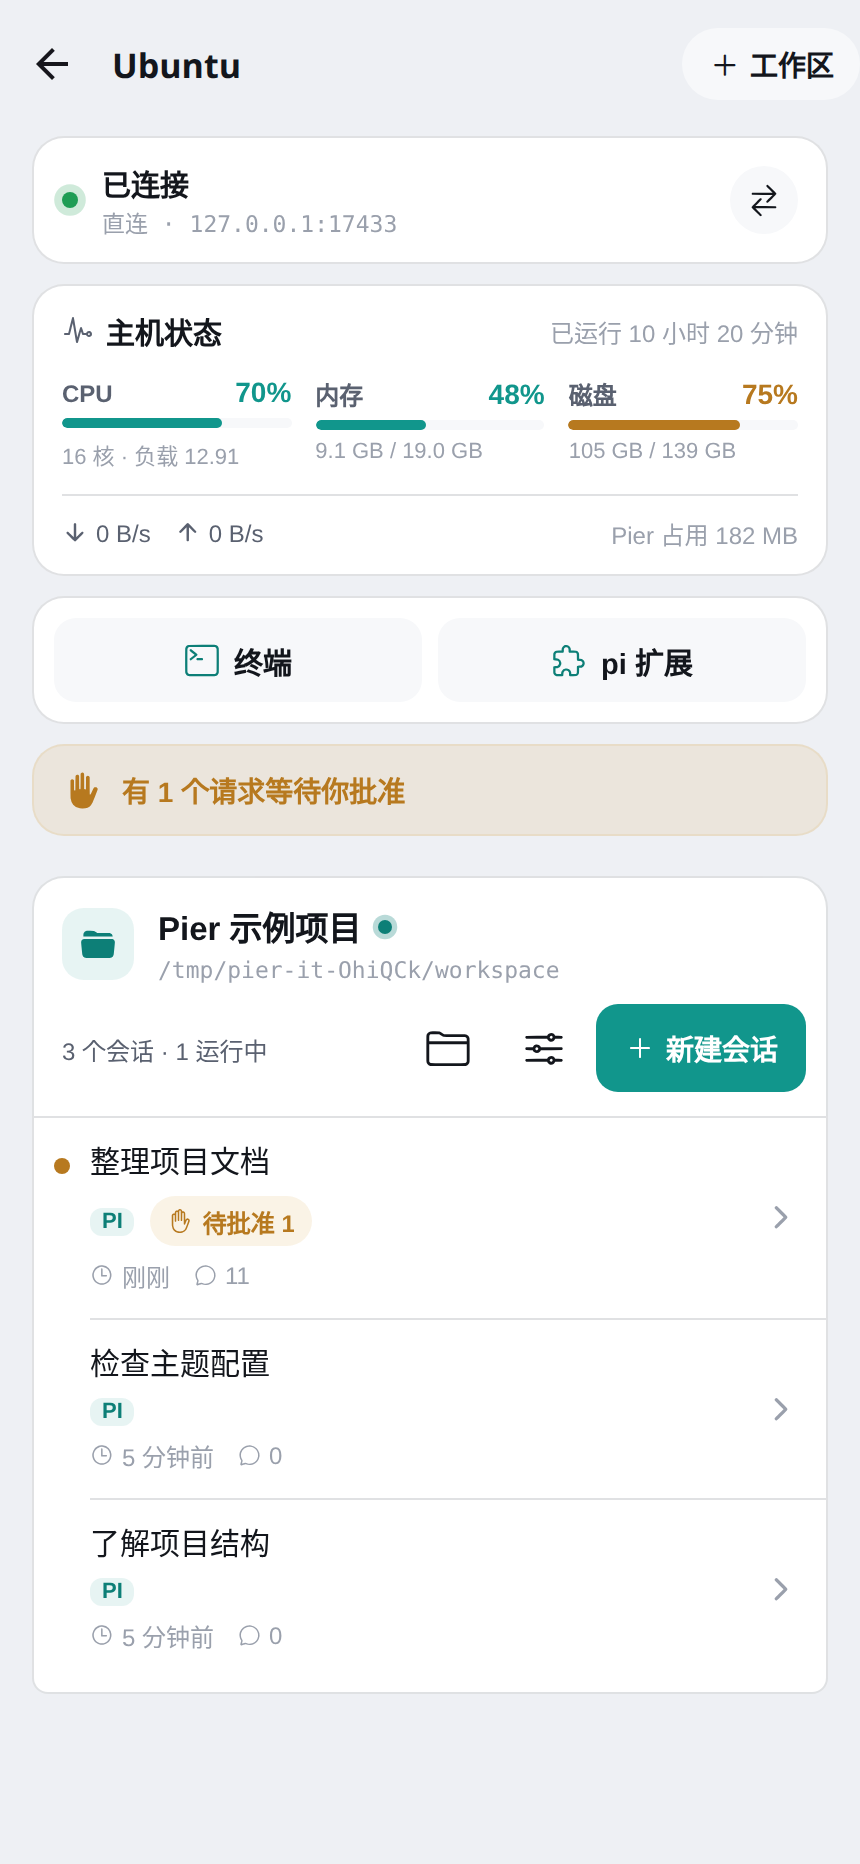
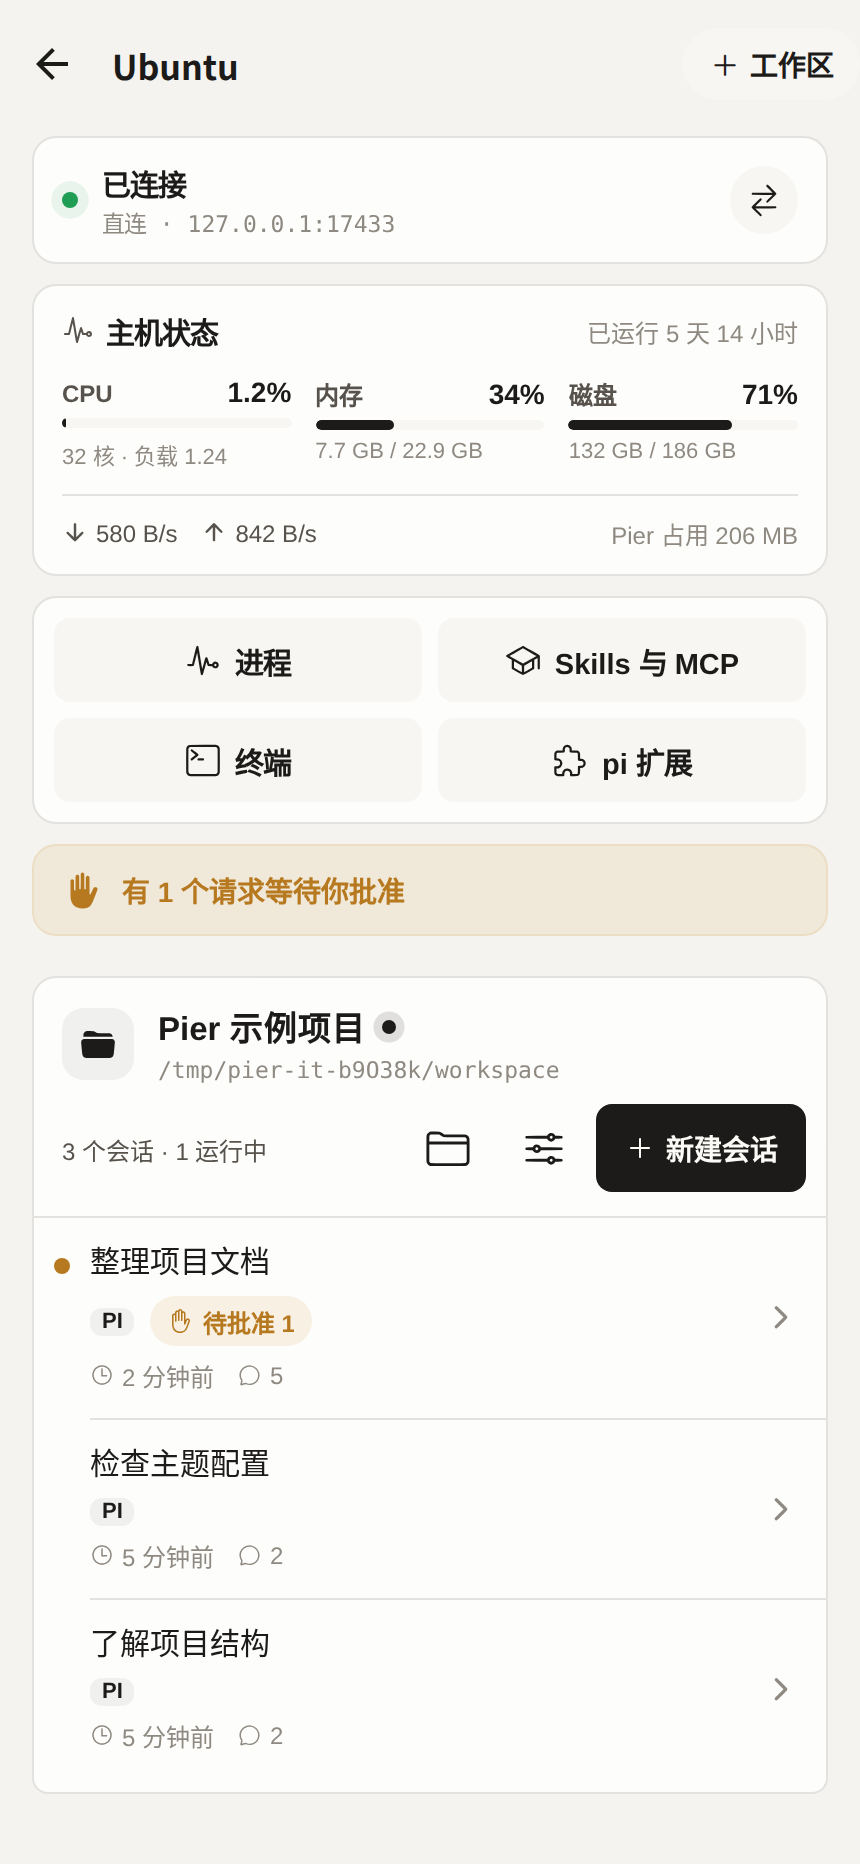
docs: retake README screenshots in warm paper and ink
The desktop and mobile screenshots still showed the teal dark theme
from October. Retake all four with the faux host in the light theme of
v0.3.8, keeping the same scenes: the workbench with an edit diff and a
pending approval, the Git panel with its changes and commit history,
and the mobile host overview and session.

diff --git a/README.md b/README.md
@@ -209,7 +209,7 @@ bunx expo run:ios --device
 
 ## 界面预览
 
-以下截图来自实际运行的 Pier 界面，使用示例工作区与演示模型。桌面端截自浏览器预览，手机端截自 Web 预览。截图摄于 v0.3.8 改用「暖墨」配色之前，配色与当前版本不同；桌面端在「设置 → 常规 → 外观」、手机端在「设置 → 外观」中可以选择浅色、深色或跟随系统。
+以下截图来自实际运行的 Pier 界面，使用示例工作区与演示模型。桌面端截自浏览器预览，手机端截自 Web 预览。截图为浅色「暖墨」主题；桌面端在「设置 → 常规 → 外观」、手机端在「设置 → 外观」中可以选择浅色、深色或跟随系统。
 
 ### 桌面端：会话、工具调用与审批
 
